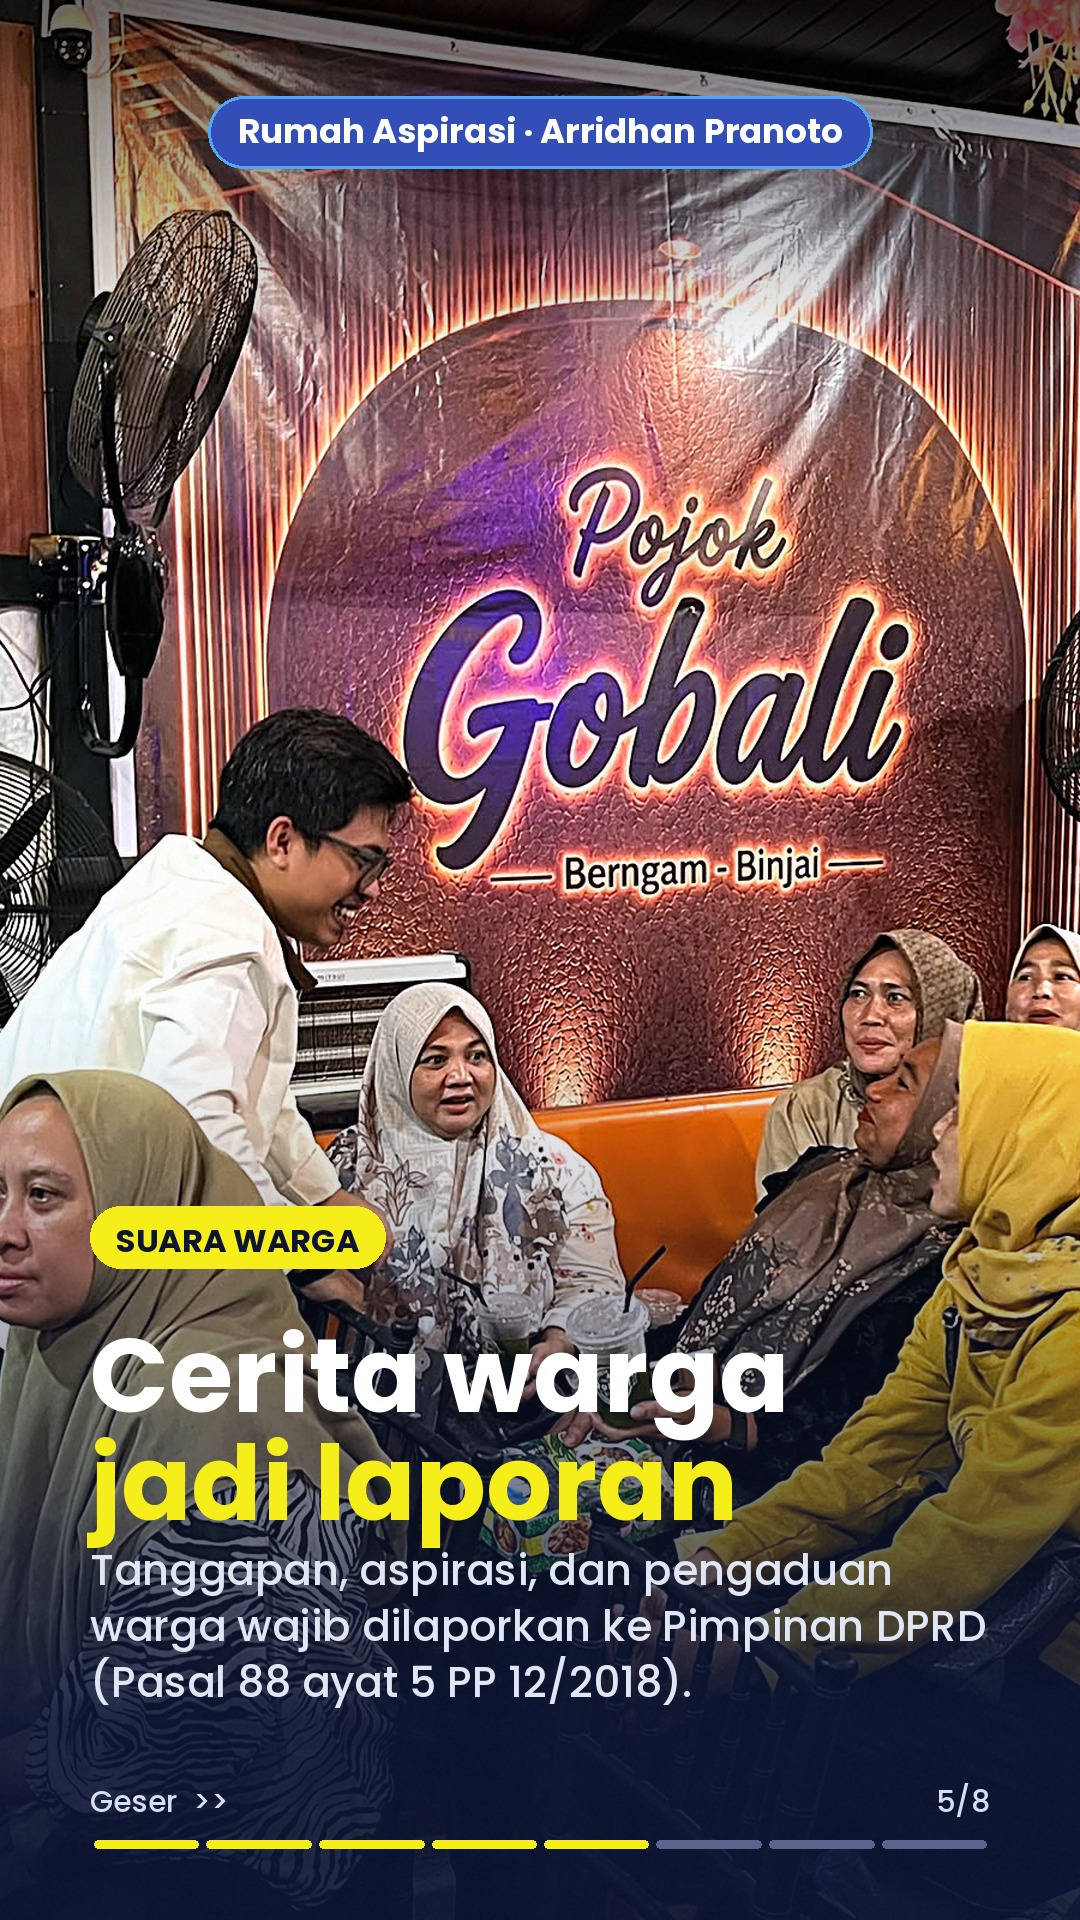
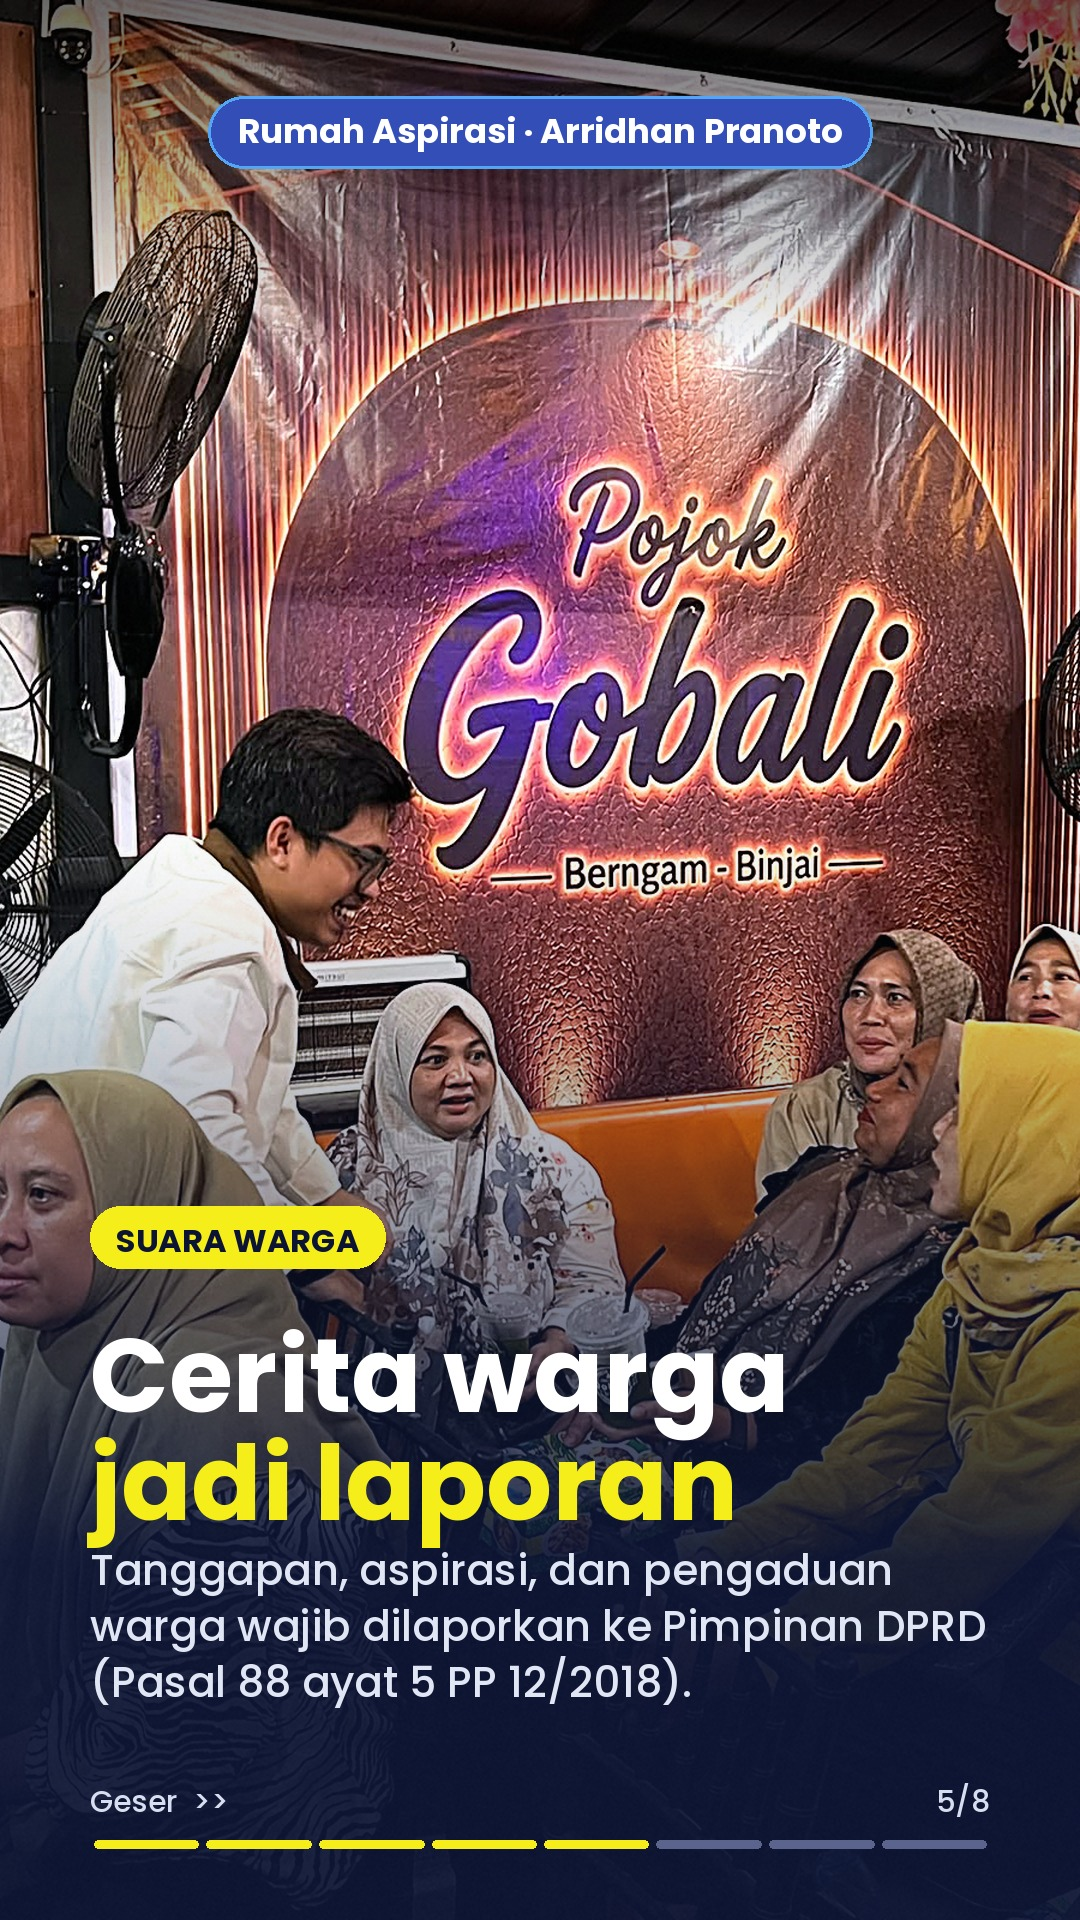
photostory: gradasi lebih gelap agar teks terbaca

Changed region(s): [[0.0, 0.5, 1.0, 0.875]]

diff --git a/tools/photostory.py b/tools/photostory.py
@@ -171,7 +171,7 @@ def s_hero(sl, rnd):
 
 def s_full(sl, rnd):
     im = cover_crop(load(sl["src"]), W, H, sl.get("focus", .4))
-    top_shade(im); grad(im, 1000, 1720, a1=235)
+    top_shade(im); grad(im, 820, 1560, a1=242)
     im = grain(im, rnd, 6); d = ImageDraw.Draw(im, "RGBA")
     th = measure_title(d, sl["title"], start=104, maxlines=3); bh = measure_body(d, sl.get("body", ""), 42)
     y = H - 220 - bh - th - 110
